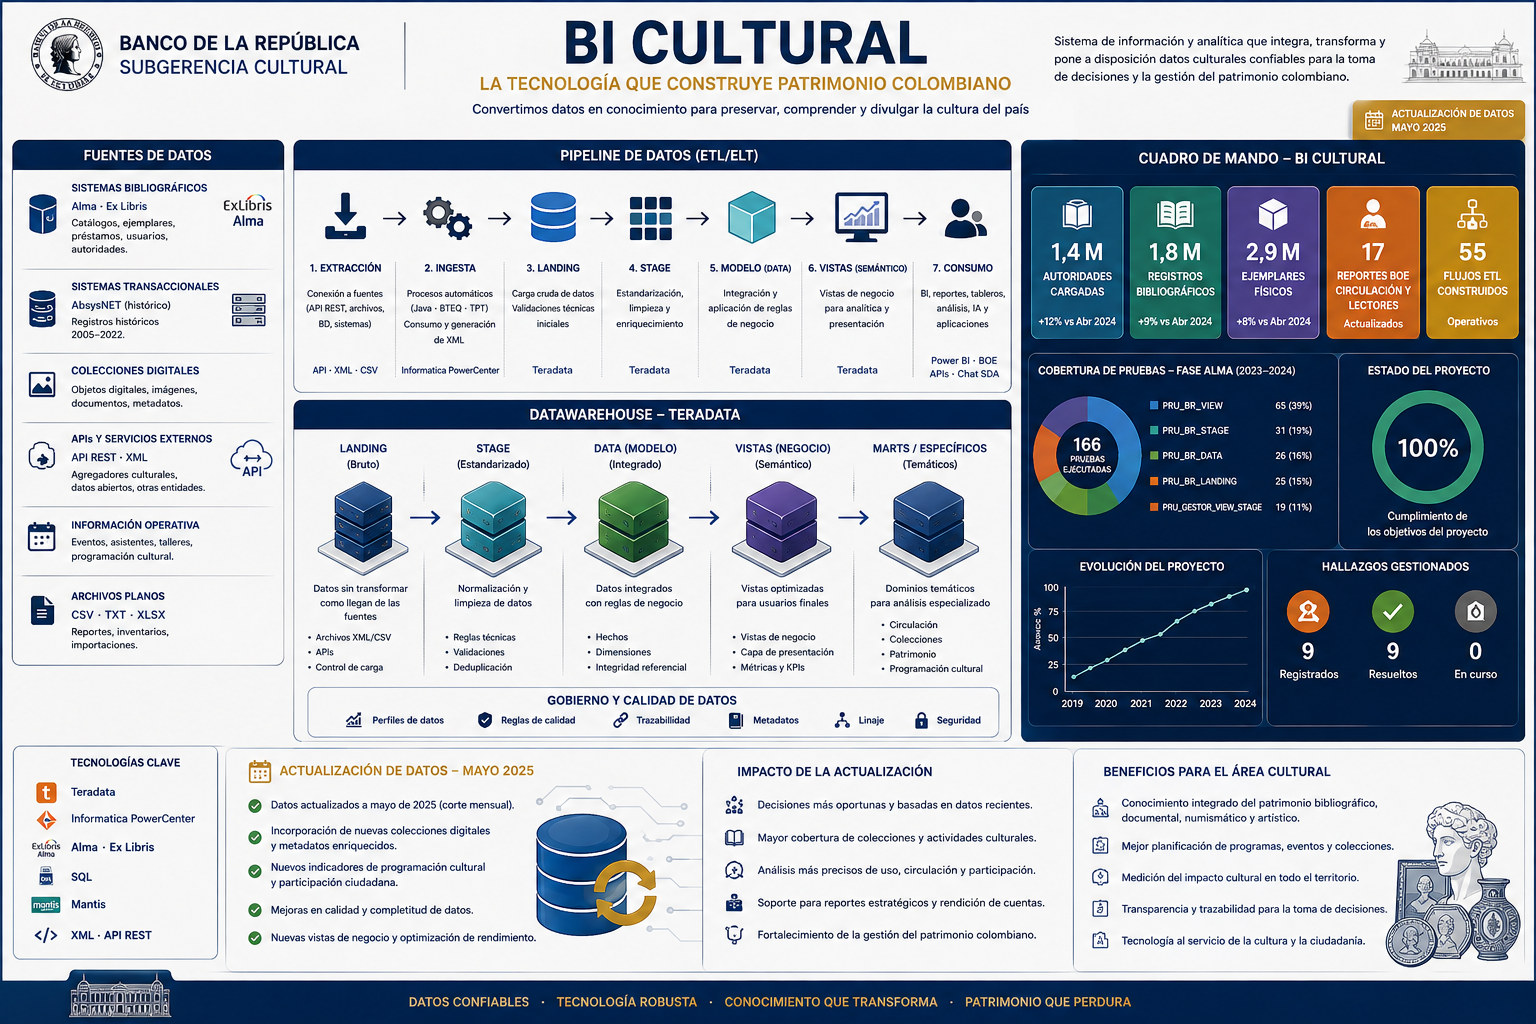
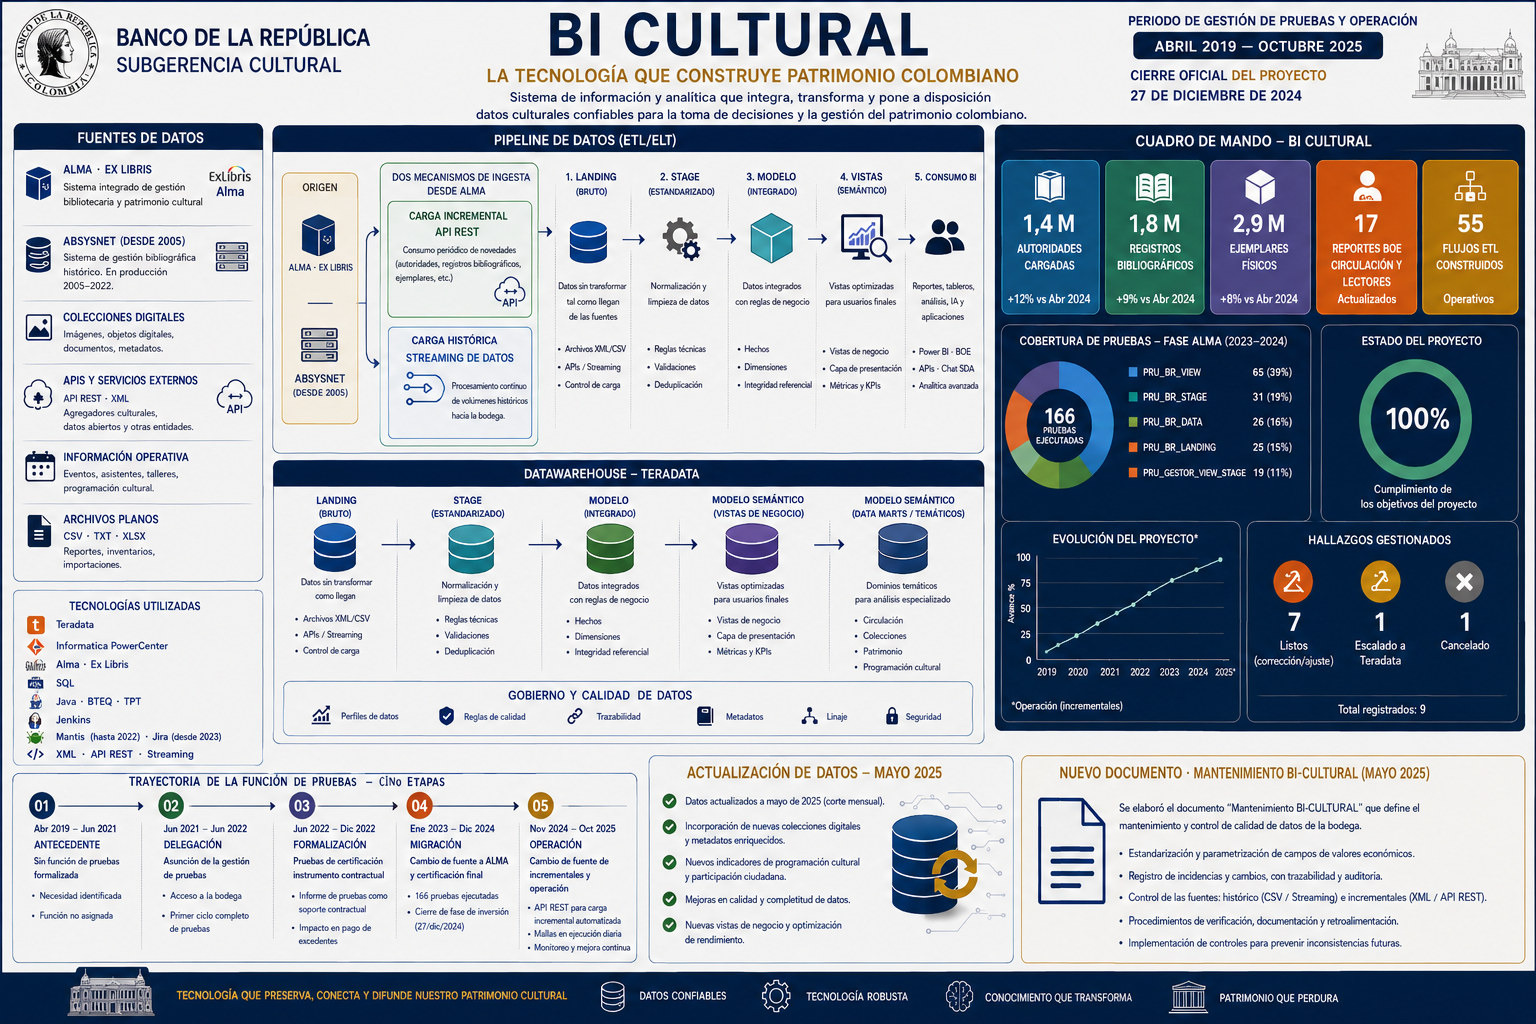
Actualiza la lámina y corrige el conteo de hallazgos
- Nueva versión de la lámina panorámica.
- Hallazgos: 7 listos, 1 escalado a Teradata y 1 cancelado (antes decía
  ocho resueltos, que no coincidía con la tabla del informe final).

Claude-Session: https://claude.ai/code/session_01GRw5dPeSYFHvxAp1DsuiCx

diff --git a/index.html b/index.html
@@ -293,7 +293,7 @@ const ETAPAS=[
   {label:"APORTE DE VALOR",items:["Detección del hallazgo bloqueante antes del paso a producción: sin las severidades ni las transformaciones definidas, el proceso no pasa de Stage y no carga ningún registro.","Requerimiento especificado con campos de entrada y salida, formatos, orígenes y los seis casos de transformación con su distribución real."]},
   {label:"EVIDENCIA",items:["Documento de mantenimiento BI-CULTURAL, 26 de agosto de 2026.","Registros en el modelo: 1.540.836 autoridades, 1.158.085 registros bibliográficos y 2.906.609 ejemplares."]}]}];
 
-const CIFRAS=[["166","pruebas ejecutadas en la fase ALMA"],["5","bases de datos de prueba cubiertas"],["9","hallazgos registrados y gestionados"],["6","años de duración del proyecto"]];
+const CIFRAS=[["166","pruebas ejecutadas en la fase ALMA"],["5","bases de datos de prueba cubiertas"],["9","hallazgos: 7 listos, 1 escalado, 1 cancelado"],["6","años de duración del proyecto"]];
 const BD=[["PRU_BR_VIEW",65,"39%"],["PRU_BR_STAGE",31,"19%"],["PRU_BR_DATA",26,"16%"],["PRU_BR_LANDING",25,"15%"],["PRU_GESTOR_VIEW_STAGE",19,"11%"]];
 const HALL=[
 ["BICULT-159","El proceso CULTElAu no modifica los campos correspondientes en la tabla destino","Cancelado","11/dic/24"],
